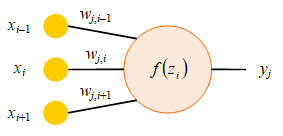
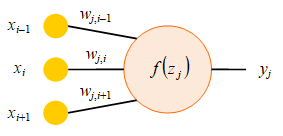
fin 0224

Changed region(s): [[0.5371, 0.4118, 0.6219, 0.5882], [0.6219, 0.4118, 0.6784, 0.5882]]

diff --git a/_posts/0/22/2021-04-14-intro-to-ann-4.md b/_posts/0/22/2021-04-14-intro-to-ann-4.md
@@ -11,8 +11,8 @@ threejs: false
 oo: false
 svgphys: false
 category: physics
-tags: ["artificial neural network", "ann", "treshold logic unit", "fi3201", "2020-2"]
-date: 2021-04-14 04:19:00 +07
+tags: ["artificial neural network", "ann", "activation function", "step unit function", "binary step", "bias", "fi3201", "2020-2"]
+date: 2021-04-14 04:39:00 +07
 permalink: /0224
 src: https://github.com/dudung/soal/commits/master/_posts/0/22/2021-04-13-intro-to-ann-4.md
 ref: https://developer.ibm.com/articles/l-neural/
@@ -21,13 +21,28 @@ Langkah pertama untuk memahami jaringan saraf adalah dengan membuat abstraksi da
 
 ![]({{site.baseurl}}/assets/img/0/22/0223.png)
 
+Keluaran SLA di atas adalah $y_i$ yang merupakan hasil dari fungsi aktivasi dengan masukannya adalah 
 
+\begin{equation}\label{eqn:0224-0}
+z_j = b + \sum_i w_{ji} x_i,
+\end{equation}
 
-Dengan $y_i = f(z_i)$, di mana $y_i$ adalah keluaran suatu SLA, formulasi umum untuk memperoleh $z_i$ adalah
+di mana $b$ merupakan bias, $x_i$ adalah nilai pada neuron masukan $i$, dan $w_{ji}$, yang merupakan bobot, menggambarkan kontribusi masukan $i$ terhadap nilai $z_j$. Fungsi aktivasi $f(z_i)$ dapat merupakan fungsi tangga biner (binary step function) atau tangga satuan (unit step funvtion) berbentuk
+
+\begin{equation}\label{eqn:0224-1}
+f(z_i) = \left\\{
+\begin{array}{cc}
+0, & z_i < 0, \newline
+1, & z_i \ge 0.
+\end{array}
+\right.
+\end{equation}
+
+Syarat aktivasi dalam Persamaan \eqref{eqn:0224-1} dapat diubah dari $0$ menjadi $a$ menggunakan bias $b$ pada Persamaan \eqref{eqn:0224-0} dengan menggunakan
 
 <ol type="A">
-<li>$\displaystyle \sum_i w_{ji} x_i$.
-<li>$\displaystyle \prod_i w_{ji} x_i$.
-<li>$\displaystyle \sum_i \frac{w_{ji}}{x_i}$.
-<li>$\displaystyle \prod_i \frac{w_{ji}}{x_i}$.
-<li>$\displaystyle \sum_i e^{w_{ji} x_i}$.
+<li>$b = a$.
+<li>$b = -a$.
+<li>$b = a^{-1}$.
+<li>$b = e^a$.
+<li>$b = \log a$.
